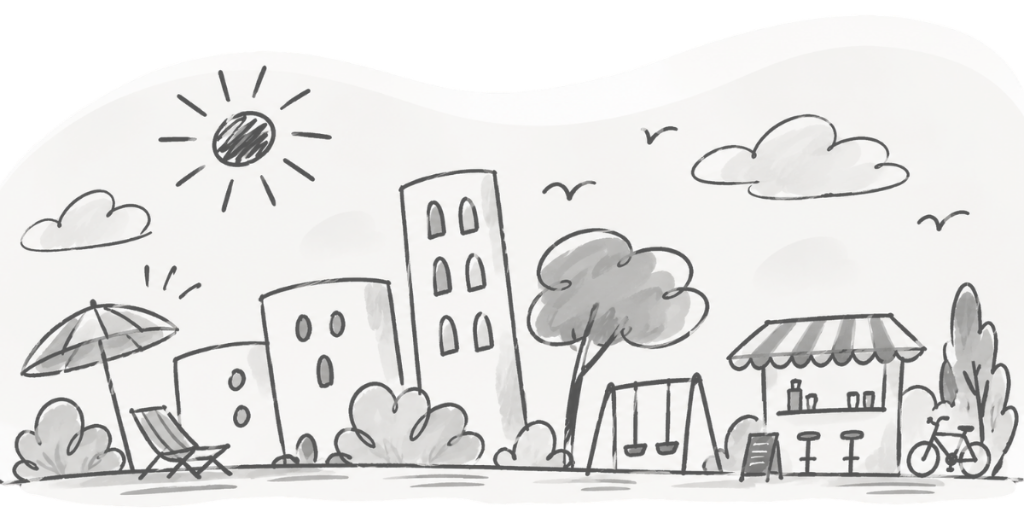
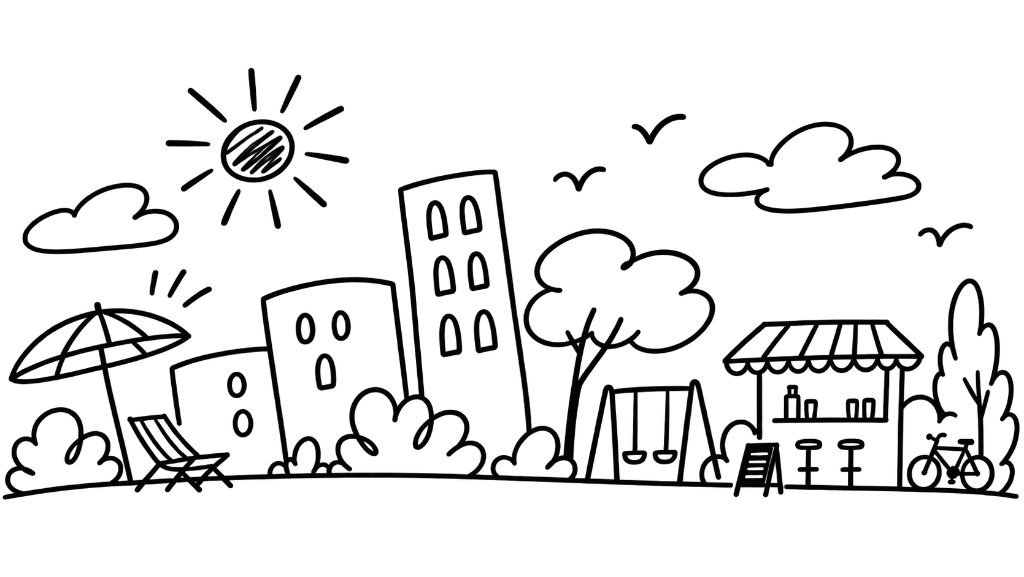
Swap the fixed skyline base for the new borgo line drawing.

diff --git a/index.html b/index.html
@@ -1326,7 +1326,7 @@
   </svg>
 
   <figure class="skyline is-fixed" data-skyline aria-hidden="true">
-    <img class="skyline__art" src="assets/borgo-skyline.png" width="1024" height="512" alt="" decoding="async">
+    <img class="skyline__art" src="assets/borgo-skyline.png?v=2" width="1024" height="577" alt="" decoding="async">
   </figure>
 
   <div class="float-dock" aria-label="Azioni rapide">
